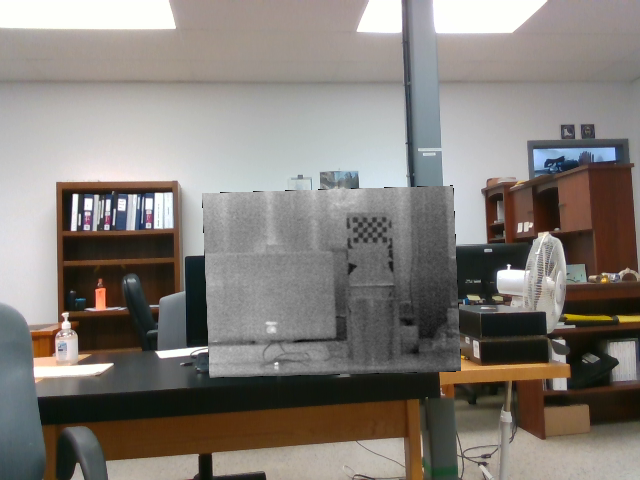
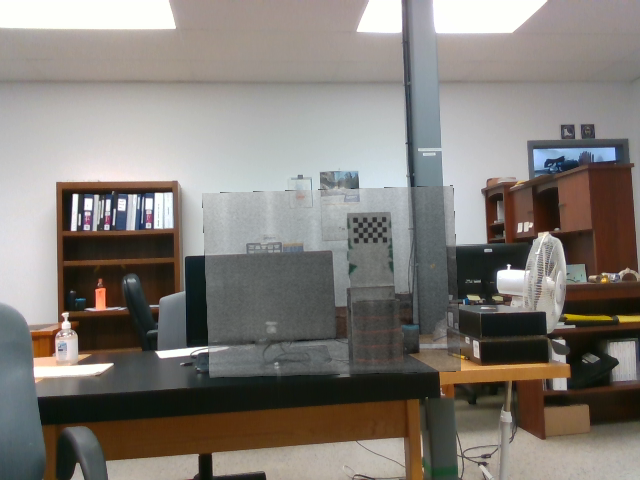
correct the blending modalities and add alpha

Changed region(s): [[0.3125, 0.375, 0.7188, 0.8125], [0.6875, 0.375, 0.7188, 0.5625]]

diff --git a/phm/data/data.py b/phm/data/data.py
@@ -10,7 +10,7 @@ from functools import lru_cache
 from dataclasses import dataclass
 from typing import Any, Dict, List, Tuple, Union
 
-modal_to_image = lambda img : ((img - np.min(img)) / (np.max(img) - np.min(img))) * 255.0
+modal_to_image = lambda img : (((img - np.min(img)) / (np.max(img) - np.min(img))) * 255.0).astype(np.uint8)
 gray_to_rgb = lambda img : np.stack((img, img, img), axis=2)
 
 __modality_loaders = {}
@@ -35,13 +35,11 @@ def load_entity(file_type : str, file : str):
         raise ValueError(f'{file_type} loader does not exist!')
 
     return __modality_loaders[file_type](file, file_type)
-
 @dataclass
 class MMERecord:
     data : Any
     file : str
     type : str
-
 class MMEContainer(object):
     def __init__(self, 
         cid : str = '',

diff --git a/phm/process_vtd.py b/phm/process_vtd.py
@@ -52,11 +52,13 @@ def show_rgbdt(data : RGBDnT):
     
     plt.show()
 
-def blend_vt(data : RGBDnT):
+def blend_vt(data : RGBDnT, alpha : float = 0.6):
     thermal_rgb = gray_to_rgb(data.thermal)
-    fused = data.visible.copy()
-    fused[thermal_rgb > 0] = thermal_rgb[thermal_rgb > 0]
-    return fused
+    fused = (data.visible.copy()).astype(np.float)
+    ttemp = thermal_rgb * alpha
+    vtemp = data.visible * (1 - alpha)
+    fused[thermal_rgb > 0] = vtemp[thermal_rgb > 0] + ttemp[thermal_rgb > 0]
+    return modal_to_image(fused)
 
 class VTD_Alignment:
     __thermal__ = 'thermal'
